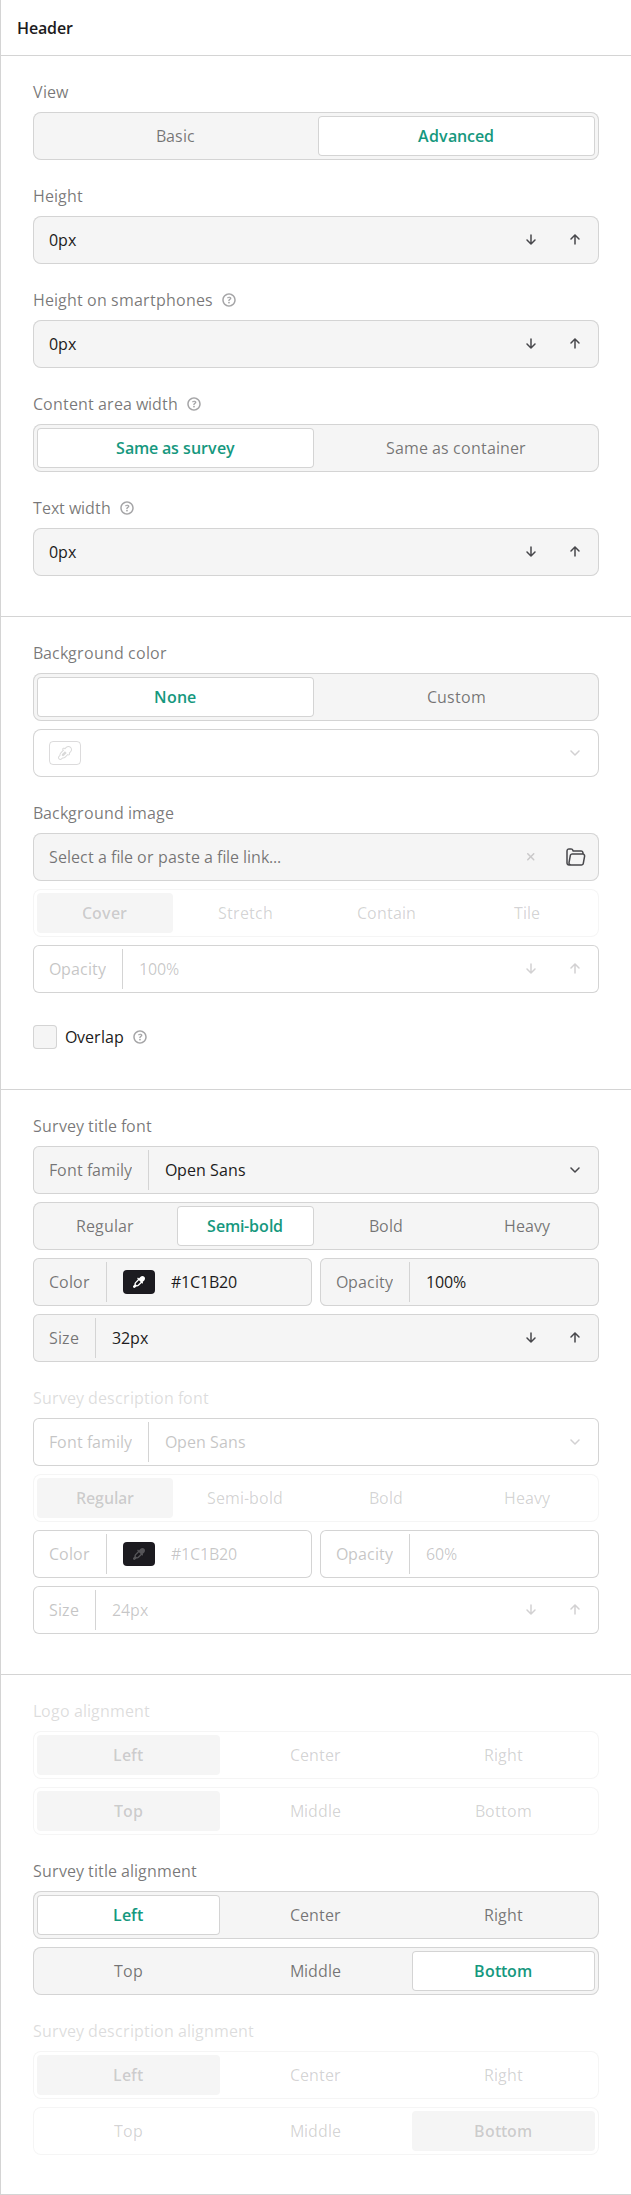
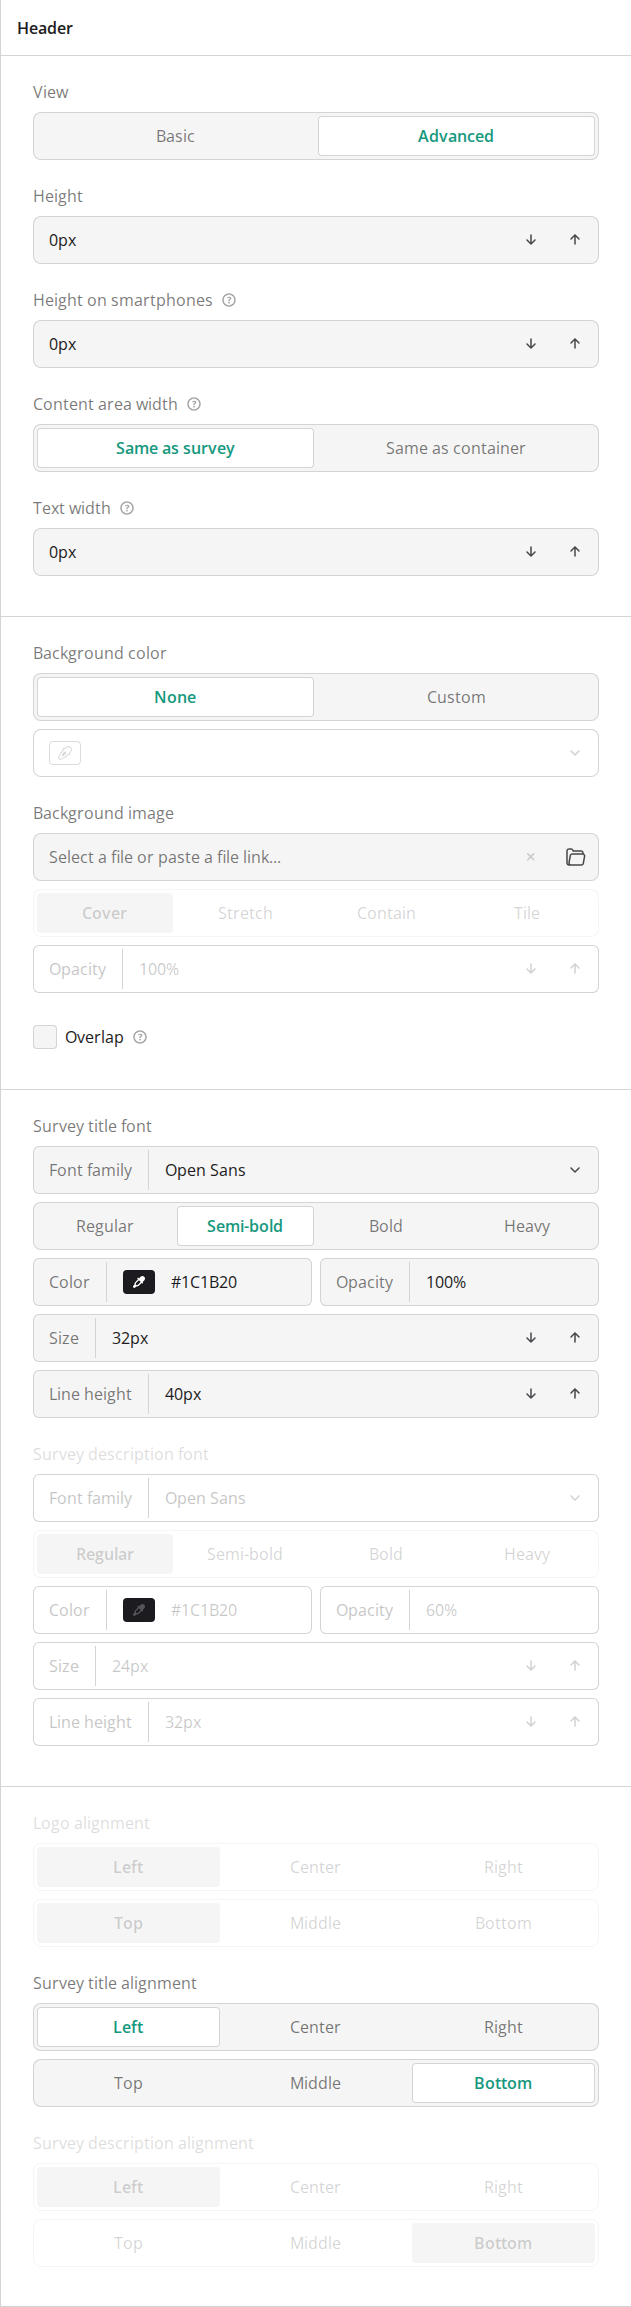
V3 add line-heigth into font settings - update etalons

diff --git a/screenshotTests/theme-tab.spec.ts b/screenshotTests/theme-tab.spec.ts
@@ -50,7 +50,7 @@ test.describe(title, () => {
   });
 
   test("theme setting property grid", async ({ page }) => {
-    await page.setViewportSize({ width: 1580, height: 4000 });
+    await page.setViewportSize({ width: 1580, height: 4300 });
     await setJSON(page, {
       showQuestionNumbers: true,
       title: "Title",